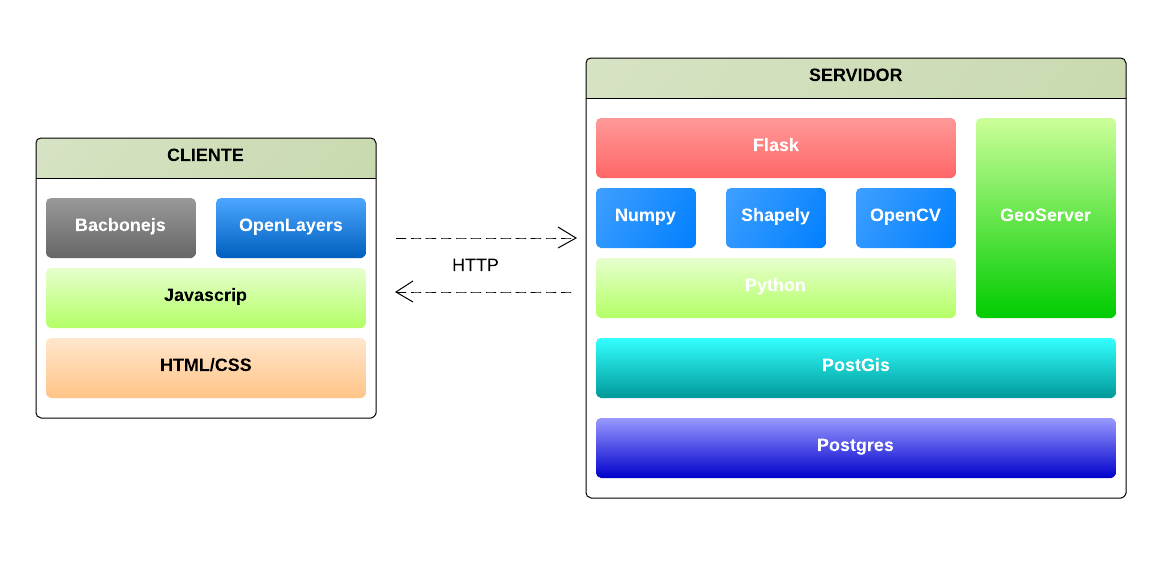
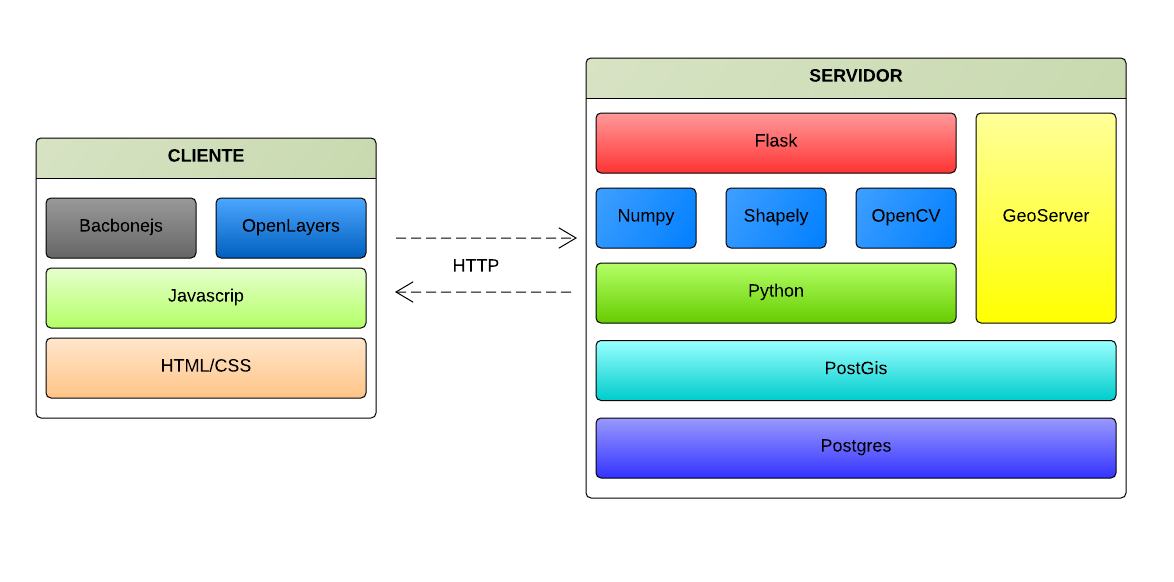
Se realizan correcciones de errores ortrograficos y se modifican algunas imágenes

diff --git a/book/capitulo-7/capitulo-7.tex b/book/capitulo-7/capitulo-7.tex
@@ -4,7 +4,7 @@ de infestación del vector del dengue, sustentado en métodos de muestreo para l
 abundancia poblacional, con el fin de apoyar a la lucha preventiva de esta enfermedad.
 
 El diseño e implementación del modelo como un simulador del proceso evolutivo del vector en el
-contexto de un  sistema de información geográfica, permite realizar análisis complejos de la
+contexto de un sistema de información geográfica, permite realizar análisis complejos de la
 realidad espacial rápidamente, generando información regionalizada para determinar los niveles de
 infestación correspondientes al área de estudio. Contar con esta información regionalizada,
 asociada con niveles de infestación permitirá a las autoridades sanitarias definir y planificar
@@ -18,16 +18,15 @@ distintas etapas de desarrollo del ciclo de vida del vector. Se considera al mod
 como genérico, debido a que sus parámetros pueden ser ajustados para aplicarlos en cualquier
 región o área de estudio.
 
-La configuración del simulador del proceso evolutivo requiere de
-parámetros asociados con las características biológicas y datos ecológicos correspondientes al
-área de estudio, por lo que para su aplicación, estos parámetros de configuración deben ser
-validados por expertos en el área mediante trabajos de campo. No obstante, utilizando valores
-tomados del material bibliográfico de apoyo, se pudo observar un buen comportamiento de los
-resultados obtenidos mediante el simulador del proceso evolutivo, solo presentan pequeñas
-variaciones en comparación con los valores observados por expertos en laboratorio en en
-condiciones controladas. Las variaciones observadas pueden ser causadas por los distintos rasgos
-característicos de las cepas de mosquitos, utilizadas en los estudios de referencia, que permiten
-una mayor o menor tolerancia a ciertas condiciones.
+La configuración del simulador del proceso evolutivo requiere de parámetros asociados con las
+características biológicas y datos ecológicos correspondientes al área de estudio, por lo que para
+su aplicación, estos parámetros de configuración deben ser validados por expertos en el área
+mediante trabajos de campo. No obstante, utilizando valores tomados del material bibliográfico de
+apoyo, se pudo observar un buen comportamiento de los resultados obtenidos mediante el simulador
+del proceso evolutivo, solo presentan pequeñas variaciones en comparación con los valores
+observados por expertos en laboratorio en condiciones controladas. Las variaciones observadas
+pueden ser causadas por los distintos rasgos característicos de las cepas de mosquitos, utilizadas
+en los estudios de referencia, que permiten una mayor o menor tolerancia a ciertas condiciones.
 
 Como trabajo futuro podría considerarse la extensión del modelo para incluir otras variables
 con el fin de analizar su relación y el impacto de las mismas con las zonas de riesgo. Se podrían

diff --git a/book/capitulo-4/tasa-desarrollo.tex b/book/capitulo-4/tasa-desarrollo.tex
@@ -16,8 +16,8 @@ una enzima que actúa en un rango de temperatura determinado, la enzima se desac
 
 Donde $R(k)$ representa la tasa de desarrollo media ($dias^{-1}$) para una temperatura $K$,en la
 escala de Kelvin; $T_{H}$ , $T_{L}$ son temperaturas absolutas, en la escala de Kelvin, mientras
-que $H_{A}$, $H_{H}$ y $H_{L}$ son entalpías termodinámicas características del organismo, y $R$,
-igual $1,987202$ $cal/K.mol$, es la constante universal de los gases.
+que $\Delta H_{A}$, $\Delta H_{H}$ y $\Delta H_{L}$ son entalpías termodinámicas características
+del organismo, y $R$, igual $1,987202$ $cal/K.mol$, es la constante universal de los gases.
 
 Schoolfield presentó, en \cite{schoolfield1981non}, un modelo simplificado con inhibición de altas
 temperaturas, con una única alta temperatura de desactivación. El modelo se encuentra definido
@@ -32,10 +32,10 @@ como :
 \end{equation}
 
 Donde $T_{1/2}$ es la temperatura cuando la mitad de la enzima se desactiva, debido a la alta
-temperatura. Los parámetros $R(298K)$, $H_{A}$, $T_{1/2}$, y $H_{H}$ son estimados mediante la
-de regresión no lineal de Wagner, presentado en \cite{wagner1984modeling}. Para este trabajo,
-al igual que \cite{rueda1990temperature, otero2006stochastic}, se adopta el modelo de Schoolfield,
-ya que, según \cite{otero2006stochastic}, es lo suficientemente flexible para el ajuste de los
-datos biológicos disponibles. Los parámetros deben calcularse para cada etapa de desarrollo, una
-vez determinados, la ecuación puede utilizarse para calcular tasas de desarrollo a cualquier
-temperatura \cite{rueda1990temperature}.
+temperatura. Los parámetros $R(298K)$, $\Delta H_{A}$, $T_{1/2}$, y $\Delta H_{H}$ son estimados
+mediante la de regresión no lineal de Wagner, presentado en \cite{wagner1984modeling}. Para este
+trabajo, al igual que \cite{rueda1990temperature, otero2006stochastic}, se adopta el modelo de
+Schoolfield, ya que, según \cite{otero2006stochastic}, es lo suficientemente flexible para el
+ajuste de los datos biológicos disponibles. Los parámetros deben calcularse para cada etapa de
+desarrollo, una vez determinados, la ecuación puede utilizarse para calcular tasas de desarrollo a
+cualquier temperatura \cite{rueda1990temperature}.

diff --git a/book/capitulo-4/mortalidad.tex b/book/capitulo-4/mortalidad.tex
@@ -20,7 +20,7 @@ Donde $round(n)$ es la función redondea, $n$, al entero más cercano. Para $n >
 no entera de $n$ queda acumulada para la siguiente iteración.
 
 \subsubsection{Mortalidad de huevos}
-La tasa de mortalidad de los huevos se encuentra definida como una constante, $me = 0.01$,
+La tasa de mortalidad de los huevos se encuentra definida como una constante, $me = 0,01$,
 $1/\text{días}$, independiente de la temperatura \cite{otero2006stochastic}.
 
 \begin{equation}
@@ -78,17 +78,17 @@ de la temperatura \cite{otero2006stochastic}.
 
 Además de la mortalidad diaria en la fase de pupa, existe una importante mortalidad adicional
 asociada con la emergencia sin éxito de adultos, solo el 83\%  de las pupas alcanzan la maduración
-y emergerán como mosquitos adultos, por lo tanto, el factor de supervivencia es de $ef=0.83$
+y emergerán como mosquitos adultos, por lo tanto, el factor de supervivencia es de $ef=0,83$
 \cite{otero2006stochastic}.
 
 \begin{equation}
-    M_{P(x,y)}(k) = \rho(P(x,y) * (mp + (1 - ef) * R(k)))
+    M_{P(x,y)}(k) = \rho(P(x,y) * (mp(k) + (1 - ef) * R(k)))
 \end{equation}
 
 Donde $M_{P(x,y)}$ es la cantidad de pupas que deben ser eliminadas de la población $P(x,y)$.
 
 \subsubsection{Mortalidad de adultos}
-La tasa de mortalidad de los adultos se encuentra definida como una constante, $ma = 0.09$,
+La tasa de mortalidad de los adultos se encuentra definida como una constante, $ma = 0,09$,
 $1/\text{días}$, independiente de la temperatura \cite{otero2006stochastic}.
 
 \begin{equation}

diff --git a/book/capitulo-1/capitulo-1.tex b/book/capitulo-1/capitulo-1.tex
@@ -15,7 +15,7 @@ capítulos siguientes, se tratarán todos estos temas detalladamente.
 
 \section{Justificación y Antecedentes}
 El Aedes aegypti es el principal vector del dengue en América, y afecta a más de 2,500 millones
-de personas que viven en zonas en riesgo \cite{world2009dengue, gustavo2006dengue}. Actualmente la enfermedad es considerada un problema grave para la salud pública a nivel mundial
+de personas que viven en zonas de riesgo \cite{world2009dengue, gustavo2006dengue}. Actualmente la enfermedad es considerada un problema grave para la salud pública a nivel mundial
 \cite{dengueUruguayCap1, world2009dengue, DIBO2005}, siendo catalogada como ejemplo de una
 enfermedad que puede constituir una emergencia de salud pública de interés internacional con
 implicaciones para la seguridad sanitaria \cite{dengueUruguayCap1, world2009dengue}, debido a la

diff --git a/book/anexos/anexo-1.tex b/book/anexos/anexo-1.tex
@@ -59,12 +59,12 @@ refracción de la luz \cite{manualControlArg2009}.
 
 \begin{figure}[!htbp]
     \centering
-    \begin{subfigure}[b]{0.45\textwidth}
+    \begin{subfigure}[t]{0.45\textwidth}
         \includegraphics[width=0.9\textwidth]{anexos/graphics/ej1-larvitrampa.png}
         \caption{\label{fig:anexo-disenho-1}Larvitrampa instalada de forma colgante.}
     \end{subfigure}
     ~~~~
-    \begin{subfigure}[b]{0.45\textwidth}
+    \begin{subfigure}[t]{0.45\textwidth}
         \includegraphics[width=0.9\textwidth]{anexos/graphics/ej2-larvitrampa.png}
         \caption{\label{fig:anexo-disenho-2} Larvitrampa instalada fija al suelo.}
     \end{subfigure}

diff --git a/book/capitulo-4/ovipostura.tex b/book/capitulo-4/ovipostura.tex
@@ -26,5 +26,5 @@ considera que un día es de ovipostura si se cumple :
 Donde $N$ es la duración en días del ciclo gonotrófico de la hembra adulta. Para $R(k)$ se aplican
 los parámetros correspondientes a hembras nulíparas y paridas de acuerdo al estado de la hembra.
 En \cite{edman1987host} se observó que hembras nulíparas de Aedes aegypti poseen un proceso de
-digestión más lento en las hembras paridas y por ende el ciclo gonotrófico de las mismas tiende
+digestión más lento que las hembras paridas y por ende el ciclo gonotrófico de las mismas tiende
 a ser más largo.
